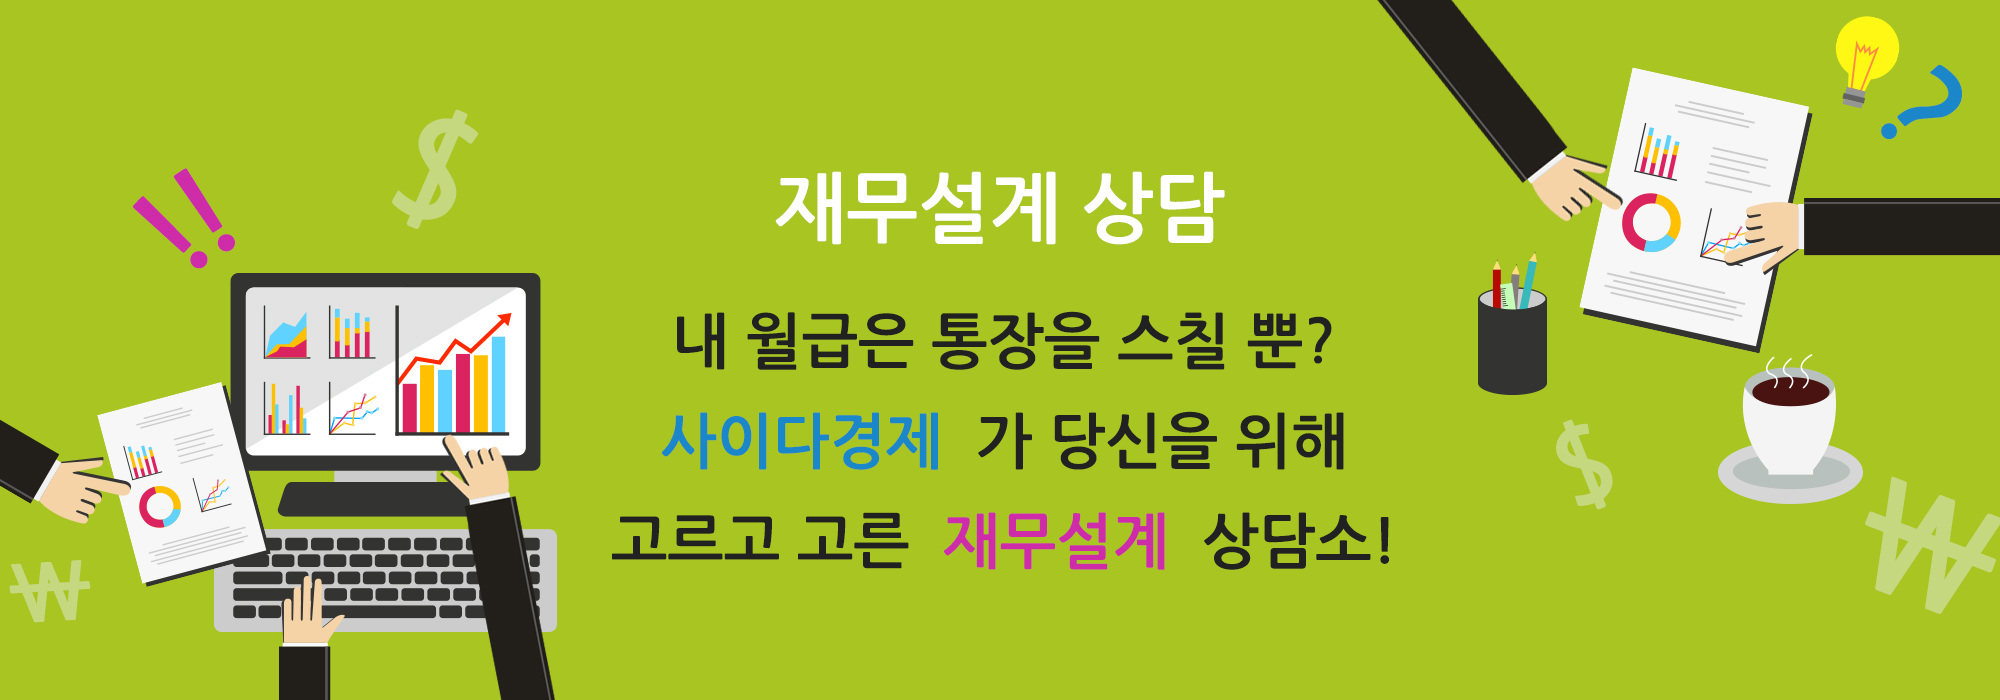
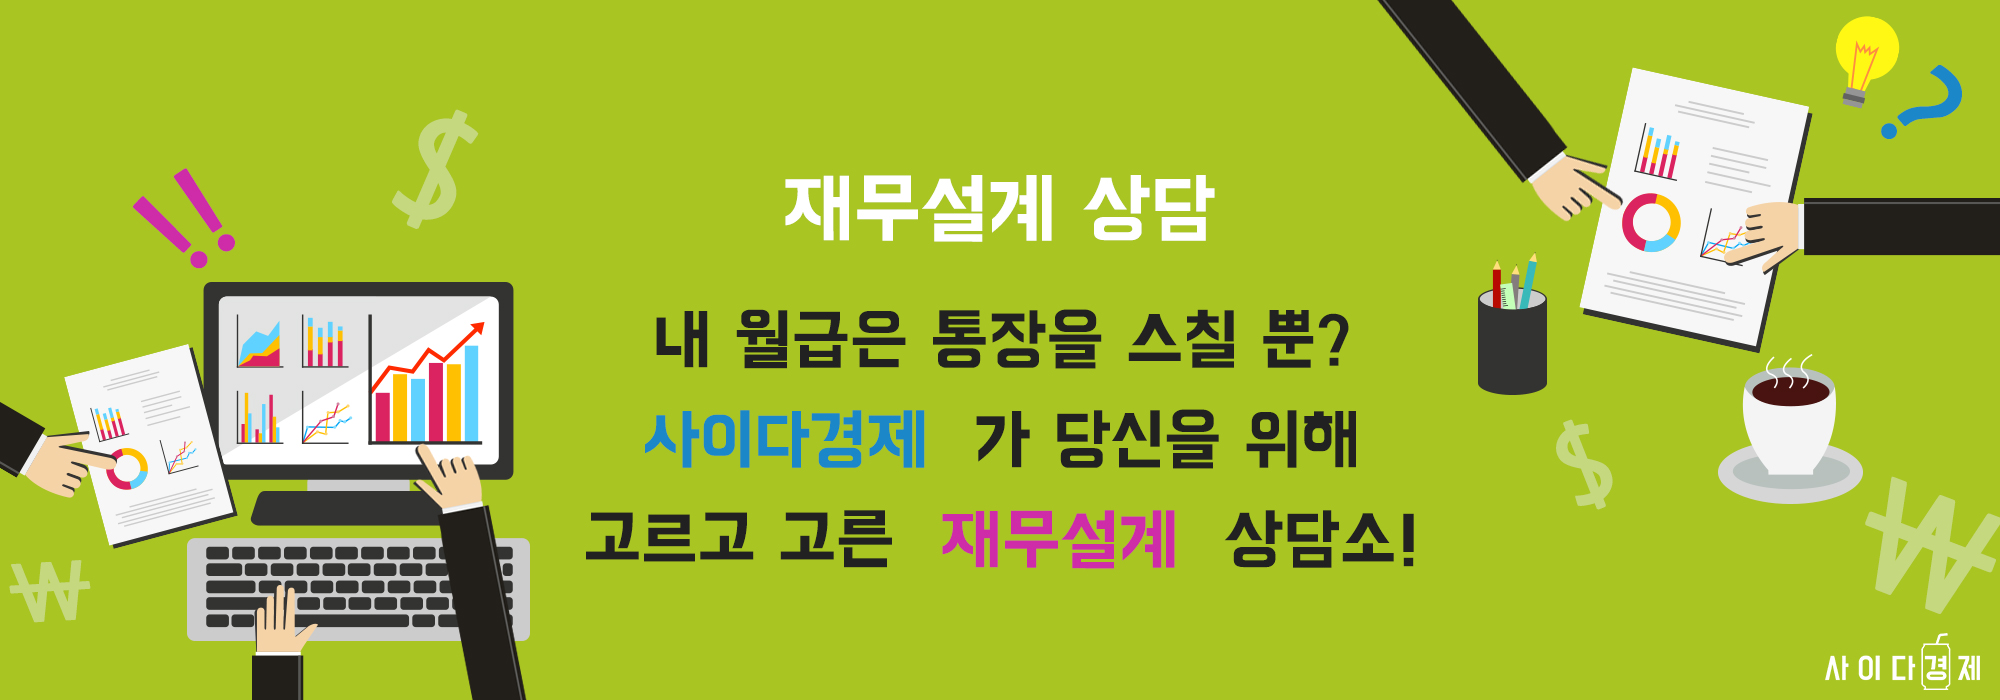
*희아수정사항 -메인 배너 이미지 수정 -강의 배너 추가

diff --git a/public/css/cid_lecture.css b/public/css/cid_lecture.css
@@ -5,6 +5,7 @@
 .lecture ul .con .date p{padding-top:5px;}
 .lecture ul .con .money p{background-color:#1b87c9; width:110px; height:30px; border-radius:30px; color:#fff; padding-top:5px;}
 @media all and (max-width:1024px) {
+.banner{margin-top:54px;}
 .line{height:1px;}
 .lecture .grid p{margin-top:15px;}
 .lecture ul .con .date{padding:5px;}
